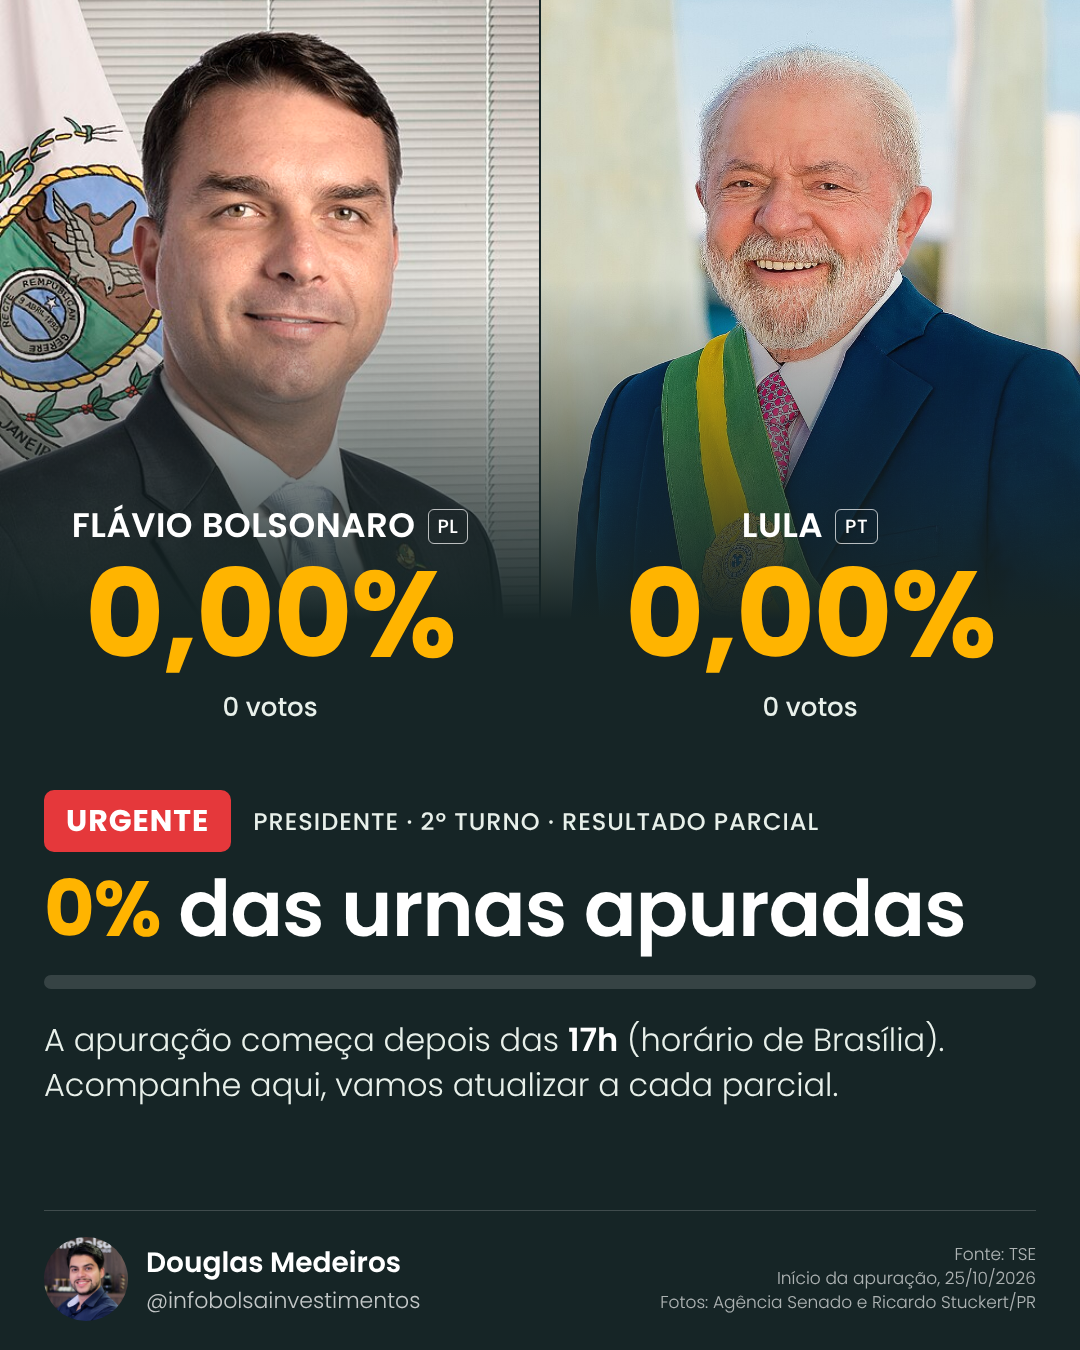
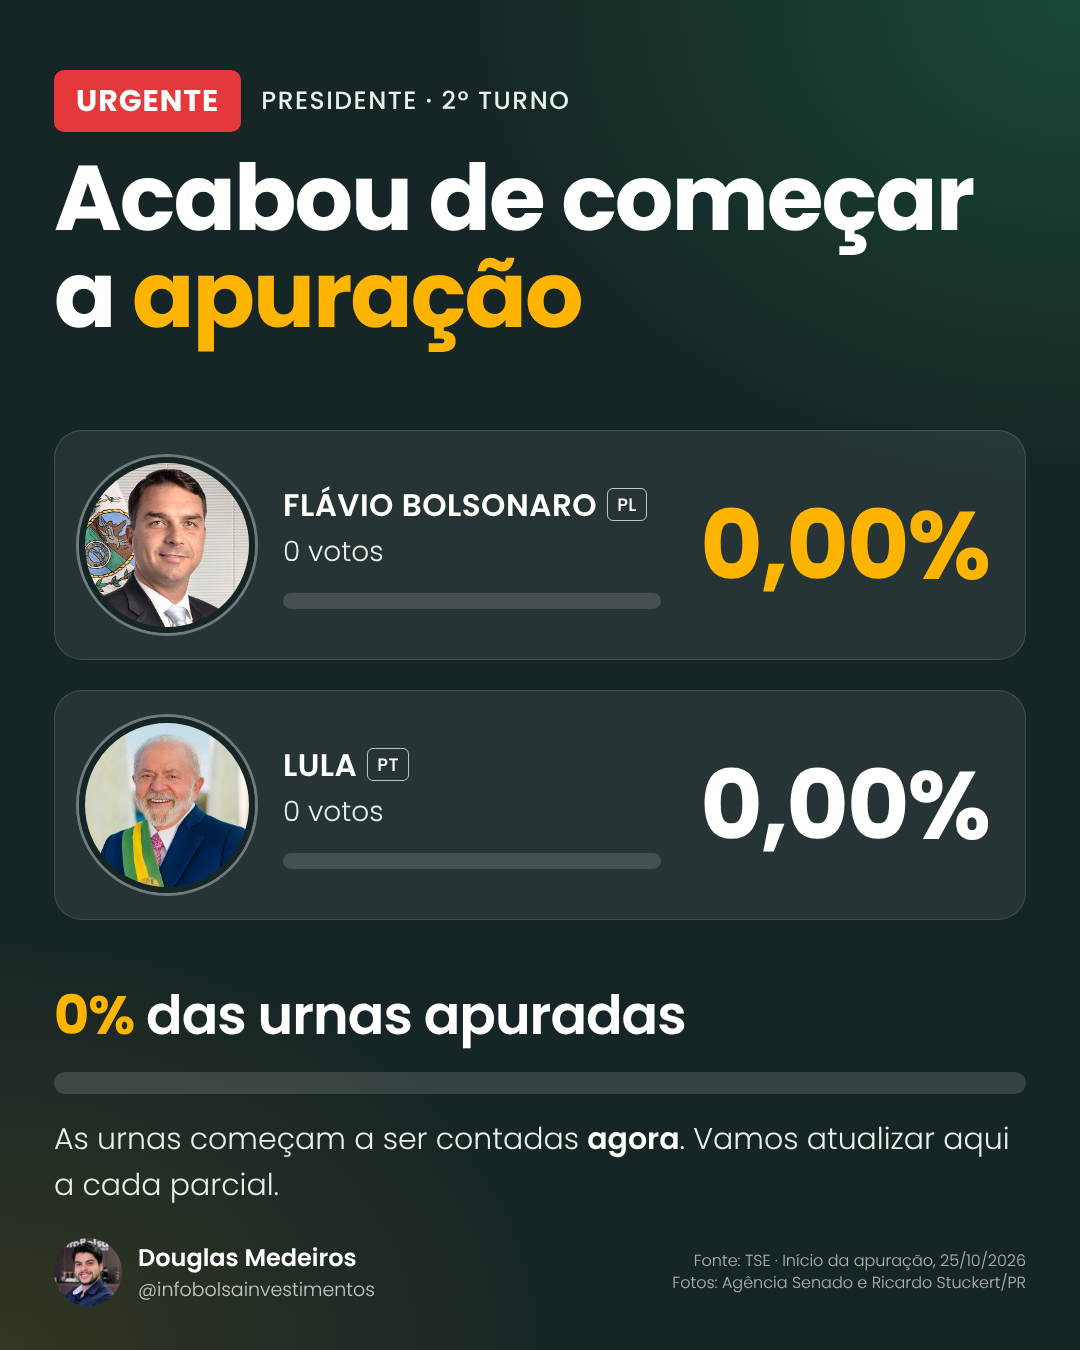
Apuração: novo layout
Claude-Session: https://claude.ai/code/session_01V4Ut9U2W4uPbxLAyJQKmJH

diff --git a/kit/t.html b/kit/t.html
@@ -5,39 +5,39 @@
 @font-face{font-family:"P";font-weight:700;src:url("fonts/sistema/Poppins-Bold.ttf")}
 *{margin:0;padding:0;box-sizing:border-box}
 html,body{width:1080px;height:1350px;overflow:hidden}
-body{position:relative;font-family:"P",sans-serif;background:#162526;color:#fff}
-.f{position:absolute;top:0;height:620px;background-size:cover;width:540px}
-.fa{left:0;background-image:url(assets/flavio.jpg);background-position:50% 12%}
-.fb{right:0;background-image:url(assets/lula.jpg);background-position:50% 8%}
-.sh{position:absolute;left:0;right:0;top:0;height:620px;background:linear-gradient(180deg,rgba(22,37,38,0) 45%,rgba(22,37,38,1) 100%)}
-.mid{position:absolute;left:539px;top:0;width:2px;height:620px;background:#162526}
-.nm{position:absolute;top:500px;width:540px;text-align:center;font-weight:600;font-size:34px;letter-spacing:.5px;text-transform:uppercase}
-.nm small{display:inline-block;margin-left:12px;font-size:19px;font-weight:500;border:1.5px solid rgba(255,255,255,.7);border-radius:6px;padding:2px 9px;vertical-align:4px}
-.na{left:0}.nb{right:0}
-.pc{position:absolute;top:548px;width:540px;text-align:center;font-weight:700;font-size:122px;color:#FFB400;letter-spacing:-2px;line-height:1.1}
-.vt{position:absolute;top:688px;width:540px;text-align:center;font-weight:400;font-size:26px;color:#e8f0ea}
-.pa{left:0}.pb{right:0}
-.urg{position:absolute;left:44px;top:790px;display:flex;align-items:center;gap:22px}
-.urg b{background:#e5383b;font-weight:700;font-size:30px;padding:8px 22px;border-radius:10px;letter-spacing:1px}
-.urg span{font-weight:500;font-size:24px;letter-spacing:1px;text-transform:uppercase;color:#e8f0ea}
-.big{position:absolute;left:44px;top:850px;font-weight:600;font-size:78px;letter-spacing:-1px}
-.big em{font-style:normal;color:#FFB400;font-weight:700}
-.bar{position:absolute;left:44px;right:44px;top:975px;height:14px;border-radius:7px;background:rgba(255,255,255,.14)}
-.bar i{display:block;height:14px;border-radius:7px;background:#FFB400;width:0.0%}
-.tx{position:absolute;left:44px;right:44px;top:1018px;font-weight:300;font-size:32px;line-height:1.4;color:#e8f0ea}
-.tx b{font-weight:600;color:#fff}
-.ft{position:absolute;left:44px;right:44px;top:1210px;border-top:1px solid rgba(255,255,255,.18);padding-top:26px;display:flex;align-items:center;gap:18px}
-.ft img{width:84px;height:84px;border-radius:50%;object-fit:cover;object-position:50% 55%}
-.ft .n{font-weight:600;font-size:28px}.ft .h{font-weight:300;font-size:22px;color:rgba(255,255,255,.75)}
-.ft .fo{margin-left:auto;text-align:right;font-weight:300;font-size:17px;line-height:1.4;color:rgba(255,255,255,.65)}
+body{position:relative;font-family:"P",sans-serif;color:#fff;background:radial-gradient(900px 700px at 100% 0%,rgba(30,140,80,.35),transparent 70%),radial-gradient(800px 600px at 0% 100%,rgba(255,180,0,.12),transparent 70%),#162526}
+.top{position:absolute;left:54px;top:70px;display:flex;align-items:center;gap:20px}
+.top b{background:#e5383b;font-weight:700;font-size:30px;padding:8px 22px;border-radius:10px;letter-spacing:1px}
+.top span{font-weight:500;font-size:25px;letter-spacing:1.5px;text-transform:uppercase;color:#e8f0ea}
+h1{position:absolute;left:54px;right:54px;top:150px;font-weight:700;font-size:92px;line-height:1.05;letter-spacing:-2px}
+h1 em{font-style:normal;color:#FFB400}
+.cd{position:absolute;left:54px;right:54px;height:230px;border-radius:28px;background:rgba(255,255,255,.07);border:1.5px solid rgba(255,255,255,.14);display:flex;align-items:center;padding:0 36px 0 24px;gap:28px}
+.c1{top:430px}.c2{top:690px}
+.av{width:176px;height:176px;border-radius:50%;background-size:cover;border:6px solid #162526;box-shadow:0 0 0 3px rgba(255,255,255,.35);flex:none}
+.in{flex:1}
+.nm{font-weight:600;font-size:31px;text-transform:uppercase;letter-spacing:.5px}
+.nm small{display:inline-block;margin-left:10px;font-size:18px;font-weight:500;border:1.5px solid rgba(255,255,255,.7);border-radius:6px;padding:2px 9px;vertical-align:5px}
+.vt{font-weight:300;font-size:28px;color:#e8f0ea;margin-top:2px}
+.tr{height:16px;border-radius:8px;background:rgba(255,255,255,.14);margin-top:20px}.tr i{display:block;height:16px;border-radius:8px}
+.pc{font-weight:700;font-size:96px;letter-spacing:-2px;min-width:300px;text-align:right}
+.ap{position:absolute;left:54px;right:54px;top:975px}
+.ap .t{font-weight:600;font-size:54px;letter-spacing:-1px}.ap .t em{font-style:normal;font-weight:700;color:#FFB400}
+.bar{height:22px;border-radius:11px;background:rgba(255,255,255,.14);margin-top:16px}.bar i{display:block;height:22px;border-radius:11px;background:#FFB400;width:0.0%}
+.tx{margin-top:22px;font-weight:300;font-size:30px;color:#e8f0ea}.tx b{font-weight:600;color:#fff}
+.ft{position:absolute;left:54px;right:54px;top:1238px;display:flex;align-items:center;gap:16px}
+.ft img{width:68px;height:68px;border-radius:50%;object-fit:cover;object-position:50% 55%}
+.ft .n{font-weight:600;font-size:24px}.ft .h{font-weight:300;font-size:19px;color:rgba(255,255,255,.75)}
+.ft .fo{margin-left:auto;text-align:right;font-weight:300;font-size:16px;line-height:1.4;color:rgba(255,255,255,.65)}
 </style></head><body>
-<div class="f fa"></div><div class="f fb"></div><div class="sh"></div><div class="mid"></div>
-<div class="nm na">Flávio Bolsonaro<small>PL</small></div><div class="nm nb">Lula<small>PT</small></div>
-<div class="pc pa">0,00%</div><div class="pc pb">0,00%</div>
-<div class="vt pa">0 votos</div><div class="vt pb">0 votos</div>
-<div class="urg"><b>URGENTE</b><span>Presidente · 2º turno · Resultado parcial</span></div>
-<div class="big"><em>0%</em> das urnas apuradas</div>
-<div class="bar"><i></i></div>
-<div class="tx">A apuração começa depois das <b>17h</b> (horário de Brasília).<br>Acompanhe aqui, vamos atualizar a cada parcial.</div>
-<div class="ft"><img src="assets/foto.png"><div><div class="n">Douglas Medeiros</div><div class="h">@infobolsainvestimentos</div></div><div class="fo">Fonte: TSE<br>Início da apuração, 25/10/2026<br>Fotos: Agência Senado e Ricardo Stuckert/PR</div></div>
+<div class="top"><b>URGENTE</b><span>Presidente · 2º turno</span></div>
+<h1>Acabou de começar a <em>apuração</em></h1>
+<div class="c1" style="display:none"></div>
+<div class="cd c1"><div class="av" style="background-image:url(assets/flavio.jpg);background-position:50% 14%"></div>
+<div class="in"><div class="nm">Flávio Bolsonaro<small>PL</small></div><div class="vt">0 votos</div>
+<div class="tr"><i style="width:0.0%;background:#FFB400"></i></div></div><div class="pc" style="color:#FFB400">0,00%</div></div>
+<div class="cd c2"><div class="av" style="background-image:url(assets/lula.jpg);background-position:50% 10%"></div>
+<div class="in"><div class="nm">Lula<small>PT</small></div><div class="vt">0 votos</div>
+<div class="tr"><i style="width:0.0%;background:#ffffff"></i></div></div><div class="pc" style="color:#ffffff">0,00%</div></div>
+<div class="ap"><div class="t"><em>0%</em> das urnas apuradas</div><div class="bar"><i></i></div><div class="tx">As urnas começam a ser contadas <b>agora</b>. Vamos atualizar aqui a cada parcial.</div></div>
+<div class="ft"><img src="assets/foto.png"><div><div class="n">Douglas Medeiros</div><div class="h">@infobolsainvestimentos</div></div><div class="fo">Fonte: TSE · Início da apuração, 25/10/2026<br>Fotos: Agência Senado e Ricardo Stuckert/PR</div></div>
 </body></html>

diff --git a/kit/gen_apuracao.py b/kit/gen_apuracao.py
@@ -1,7 +1,12 @@
-import sys,json
-# uso: python3 gen_apuracao.py out.html pct fl_pct lu_pct fl_votos lu_votos "linha1" "linha2" "parcial"
-o,pct,fp,lp,fv,lv,l1,l2,par=sys.argv[1:10]
-w=float(pct.replace(',','.'))
+import sys
+# uso: gen_apuracao.py out.html titulo pct fl_pct lu_pct fl_votos lu_votos linha1 parcial
+o,tit,pct,fp,lp,fv,lv,l1,par=sys.argv[1:10]
+n=lambda s: float(s.replace('.','').replace(',','.'))
+w=n(pct); a=n(fp); b=n(lp)
+def card(nome,tag,foto,pos,p,v,cor,wd):
+    return f'''<div class="cd"><div class="av" style="background-image:url(assets/{foto});background-position:{pos}"></div>
+<div class="in"><div class="nm">{nome}<small>{tag}</small></div><div class="vt">{v} votos</div>
+<div class="tr"><i style="width:{wd}%;background:{cor}"></i></div></div><div class="pc" style="color:{cor}">{p}%</div></div>'''
 html=f'''<!doctype html><html><head><meta charset="utf-8"><style>
 @font-face{{font-family:"P";font-weight:300;src:url("fonts/node_modules/@fontsource/poppins/files/poppins-latin-300-normal.woff2")}}
 @font-face{{font-family:"P";font-weight:500;src:url("fonts/node_modules/@fontsource/poppins/files/poppins-latin-500-normal.woff2")}}
@@ -9,40 +14,36 @@ html=f'''<!doctype html><html><head><meta charset="utf-8"><style>
 @font-face{{font-family:"P";font-weight:700;src:url("fonts/sistema/Poppins-Bold.ttf")}}
 *{{margin:0;padding:0;box-sizing:border-box}}
 html,body{{width:1080px;height:1350px;overflow:hidden}}
-body{{position:relative;font-family:"P",sans-serif;background:#162526;color:#fff}}
-.f{{position:absolute;top:0;height:620px;background-size:cover;width:540px}}
-.fa{{left:0;background-image:url(assets/flavio.jpg);background-position:50% 12%}}
-.fb{{right:0;background-image:url(assets/lula.jpg);background-position:50% 8%}}
-.sh{{position:absolute;left:0;right:0;top:0;height:620px;background:linear-gradient(180deg,rgba(22,37,38,0) 45%,rgba(22,37,38,1) 100%)}}
-.mid{{position:absolute;left:539px;top:0;width:2px;height:620px;background:#162526}}
-.nm{{position:absolute;top:500px;width:540px;text-align:center;font-weight:600;font-size:34px;letter-spacing:.5px;text-transform:uppercase}}
-.nm small{{display:inline-block;margin-left:12px;font-size:19px;font-weight:500;border:1.5px solid rgba(255,255,255,.7);border-radius:6px;padding:2px 9px;vertical-align:4px}}
-.na{{left:0}}.nb{{right:0}}
-.pc{{position:absolute;top:548px;width:540px;text-align:center;font-weight:700;font-size:122px;color:#FFB400;letter-spacing:-2px;line-height:1.1}}
-.vt{{position:absolute;top:688px;width:540px;text-align:center;font-weight:400;font-size:26px;color:#e8f0ea}}
-.pa{{left:0}}.pb{{right:0}}
-.urg{{position:absolute;left:44px;top:790px;display:flex;align-items:center;gap:22px}}
-.urg b{{background:#e5383b;font-weight:700;font-size:30px;padding:8px 22px;border-radius:10px;letter-spacing:1px}}
-.urg span{{font-weight:500;font-size:24px;letter-spacing:1px;text-transform:uppercase;color:#e8f0ea}}
-.big{{position:absolute;left:44px;top:850px;font-weight:600;font-size:78px;letter-spacing:-1px}}
-.big em{{font-style:normal;color:#FFB400;font-weight:700}}
-.bar{{position:absolute;left:44px;right:44px;top:975px;height:14px;border-radius:7px;background:rgba(255,255,255,.14)}}
-.bar i{{display:block;height:14px;border-radius:7px;background:#FFB400;width:{w}%}}
-.tx{{position:absolute;left:44px;right:44px;top:1018px;font-weight:300;font-size:32px;line-height:1.4;color:#e8f0ea}}
-.tx b{{font-weight:600;color:#fff}}
-.ft{{position:absolute;left:44px;right:44px;top:1210px;border-top:1px solid rgba(255,255,255,.18);padding-top:26px;display:flex;align-items:center;gap:18px}}
-.ft img{{width:84px;height:84px;border-radius:50%;object-fit:cover;object-position:50% 55%}}
-.ft .n{{font-weight:600;font-size:28px}}.ft .h{{font-weight:300;font-size:22px;color:rgba(255,255,255,.75)}}
-.ft .fo{{margin-left:auto;text-align:right;font-weight:300;font-size:17px;line-height:1.4;color:rgba(255,255,255,.65)}}
+body{{position:relative;font-family:"P",sans-serif;color:#fff;background:radial-gradient(900px 700px at 100% 0%,rgba(30,140,80,.35),transparent 70%),radial-gradient(800px 600px at 0% 100%,rgba(255,180,0,.12),transparent 70%),#162526}}
+.top{{position:absolute;left:54px;top:70px;display:flex;align-items:center;gap:20px}}
+.top b{{background:#e5383b;font-weight:700;font-size:30px;padding:8px 22px;border-radius:10px;letter-spacing:1px}}
+.top span{{font-weight:500;font-size:25px;letter-spacing:1.5px;text-transform:uppercase;color:#e8f0ea}}
+h1{{position:absolute;left:54px;right:54px;top:150px;font-weight:700;font-size:92px;line-height:1.05;letter-spacing:-2px}}
+h1 em{{font-style:normal;color:#FFB400}}
+.cd{{position:absolute;left:54px;right:54px;height:230px;border-radius:28px;background:rgba(255,255,255,.07);border:1.5px solid rgba(255,255,255,.14);display:flex;align-items:center;padding:0 36px 0 24px;gap:28px}}
+.c1{{top:430px}}.c2{{top:690px}}
+.av{{width:176px;height:176px;border-radius:50%;background-size:cover;border:6px solid #162526;box-shadow:0 0 0 3px rgba(255,255,255,.35);flex:none}}
+.in{{flex:1}}
+.nm{{font-weight:600;font-size:31px;text-transform:uppercase;letter-spacing:.5px}}
+.nm small{{display:inline-block;margin-left:10px;font-size:18px;font-weight:500;border:1.5px solid rgba(255,255,255,.7);border-radius:6px;padding:2px 9px;vertical-align:5px}}
+.vt{{font-weight:300;font-size:28px;color:#e8f0ea;margin-top:2px}}
+.tr{{height:16px;border-radius:8px;background:rgba(255,255,255,.14);margin-top:20px}}.tr i{{display:block;height:16px;border-radius:8px}}
+.pc{{font-weight:700;font-size:96px;letter-spacing:-2px;min-width:300px;text-align:right}}
+.ap{{position:absolute;left:54px;right:54px;top:975px}}
+.ap .t{{font-weight:600;font-size:54px;letter-spacing:-1px}}.ap .t em{{font-style:normal;font-weight:700;color:#FFB400}}
+.bar{{height:22px;border-radius:11px;background:rgba(255,255,255,.14);margin-top:16px}}.bar i{{display:block;height:22px;border-radius:11px;background:#FFB400;width:{w}%}}
+.tx{{margin-top:22px;font-weight:300;font-size:30px;color:#e8f0ea}}.tx b{{font-weight:600;color:#fff}}
+.ft{{position:absolute;left:54px;right:54px;top:1238px;display:flex;align-items:center;gap:16px}}
+.ft img{{width:68px;height:68px;border-radius:50%;object-fit:cover;object-position:50% 55%}}
+.ft .n{{font-weight:600;font-size:24px}}.ft .h{{font-weight:300;font-size:19px;color:rgba(255,255,255,.75)}}
+.ft .fo{{margin-left:auto;text-align:right;font-weight:300;font-size:16px;line-height:1.4;color:rgba(255,255,255,.65)}}
 </style></head><body>
-<div class="f fa"></div><div class="f fb"></div><div class="sh"></div><div class="mid"></div>
-<div class="nm na">Flávio Bolsonaro<small>PL</small></div><div class="nm nb">Lula<small>PT</small></div>
-<div class="pc pa">{fp}%</div><div class="pc pb">{lp}%</div>
-<div class="vt pa">{fv} votos</div><div class="vt pb">{lv} votos</div>
-<div class="urg"><b>URGENTE</b><span>Presidente · 2º turno · Resultado parcial</span></div>
-<div class="big"><em>{pct}%</em> das urnas apuradas</div>
-<div class="bar"><i></i></div>
-<div class="tx">{l1}<br>{l2}</div>
-<div class="ft"><img src="assets/foto.png"><div><div class="n">Douglas Medeiros</div><div class="h">@infobolsainvestimentos</div></div><div class="fo">Fonte: TSE<br>{par}<br>Fotos: Agência Senado e Ricardo Stuckert/PR</div></div>
+<div class="top"><b>URGENTE</b><span>Presidente · 2º turno</span></div>
+<h1>{tit}</h1>
+<div class="c1" style="display:none"></div>
+{card("Flávio Bolsonaro","PL","flavio.jpg","50% 14%",fp,fv,"#FFB400",a).replace('class="cd"','class="cd c1"')}
+{card("Lula","PT","lula.jpg","50% 10%",lp,lv,"#ffffff",b).replace('class="cd"','class="cd c2"')}
+<div class="ap"><div class="t"><em>{pct}%</em> das urnas apuradas</div><div class="bar"><i></i></div><div class="tx">{l1}</div></div>
+<div class="ft"><img src="assets/foto.png"><div><div class="n">Douglas Medeiros</div><div class="h">@infobolsainvestimentos</div></div><div class="fo">Fonte: TSE · {par}<br>Fotos: Agência Senado e Ricardo Stuckert/PR</div></div>
 </body></html>'''
 open(o,'w').write(html)
